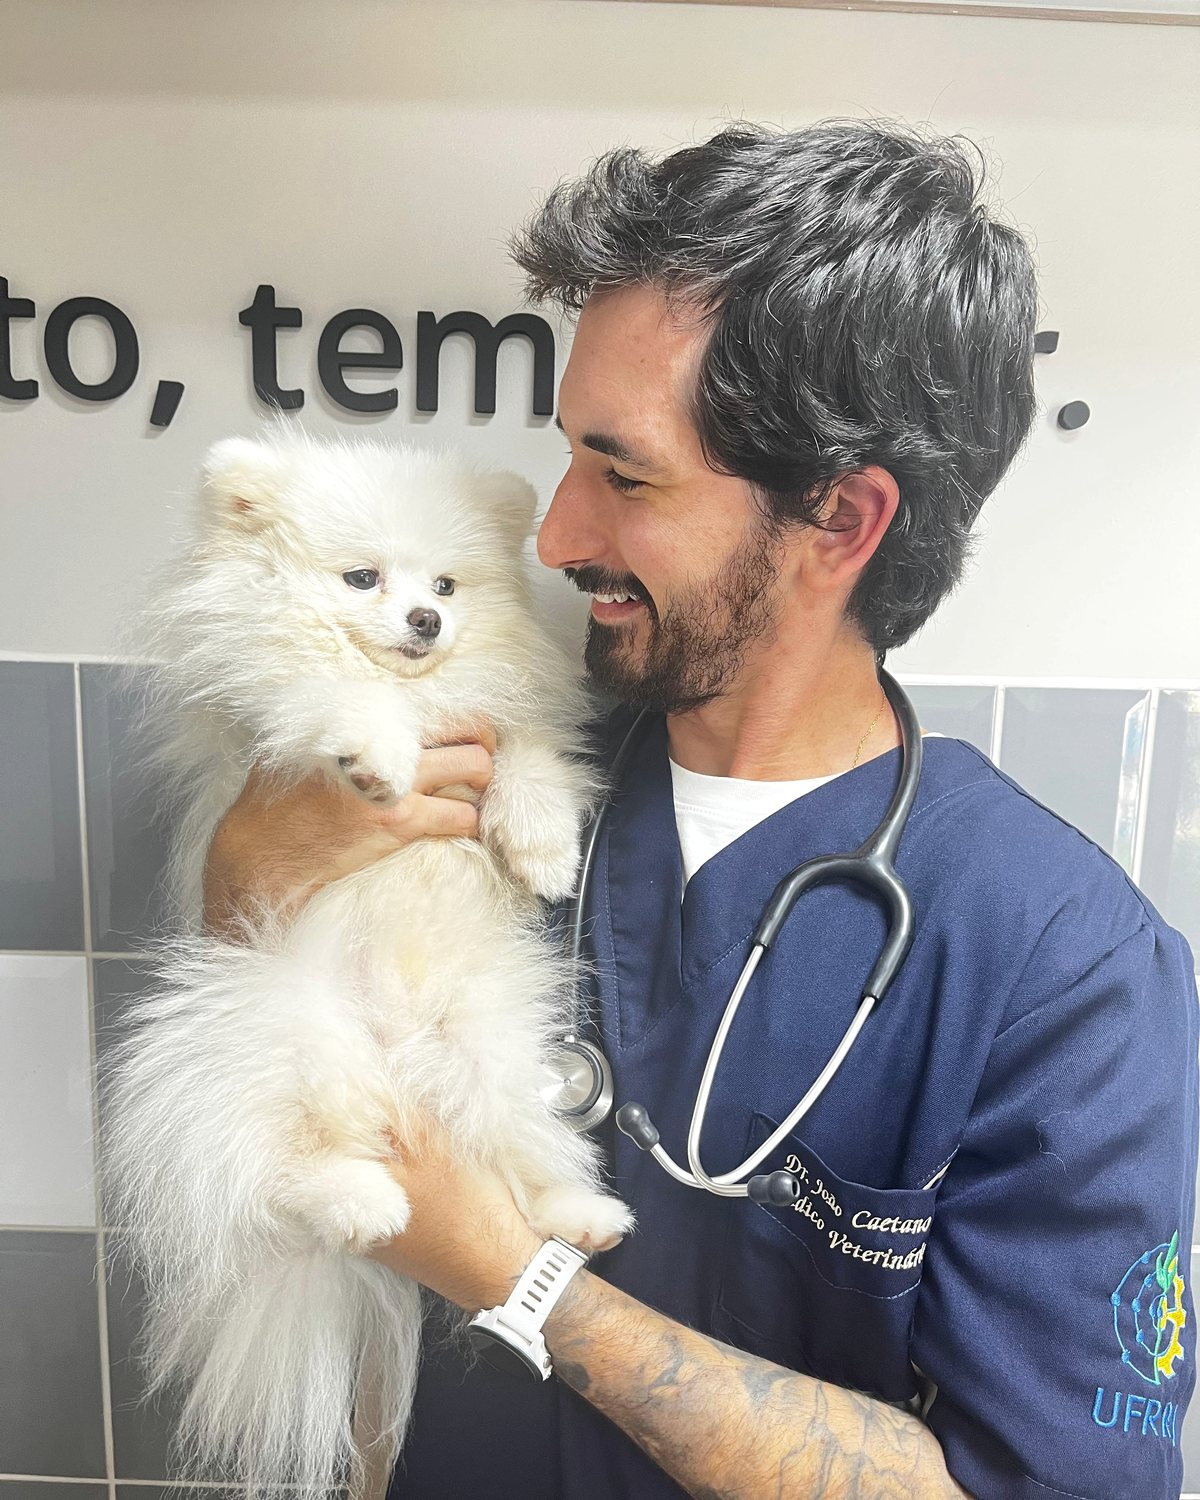
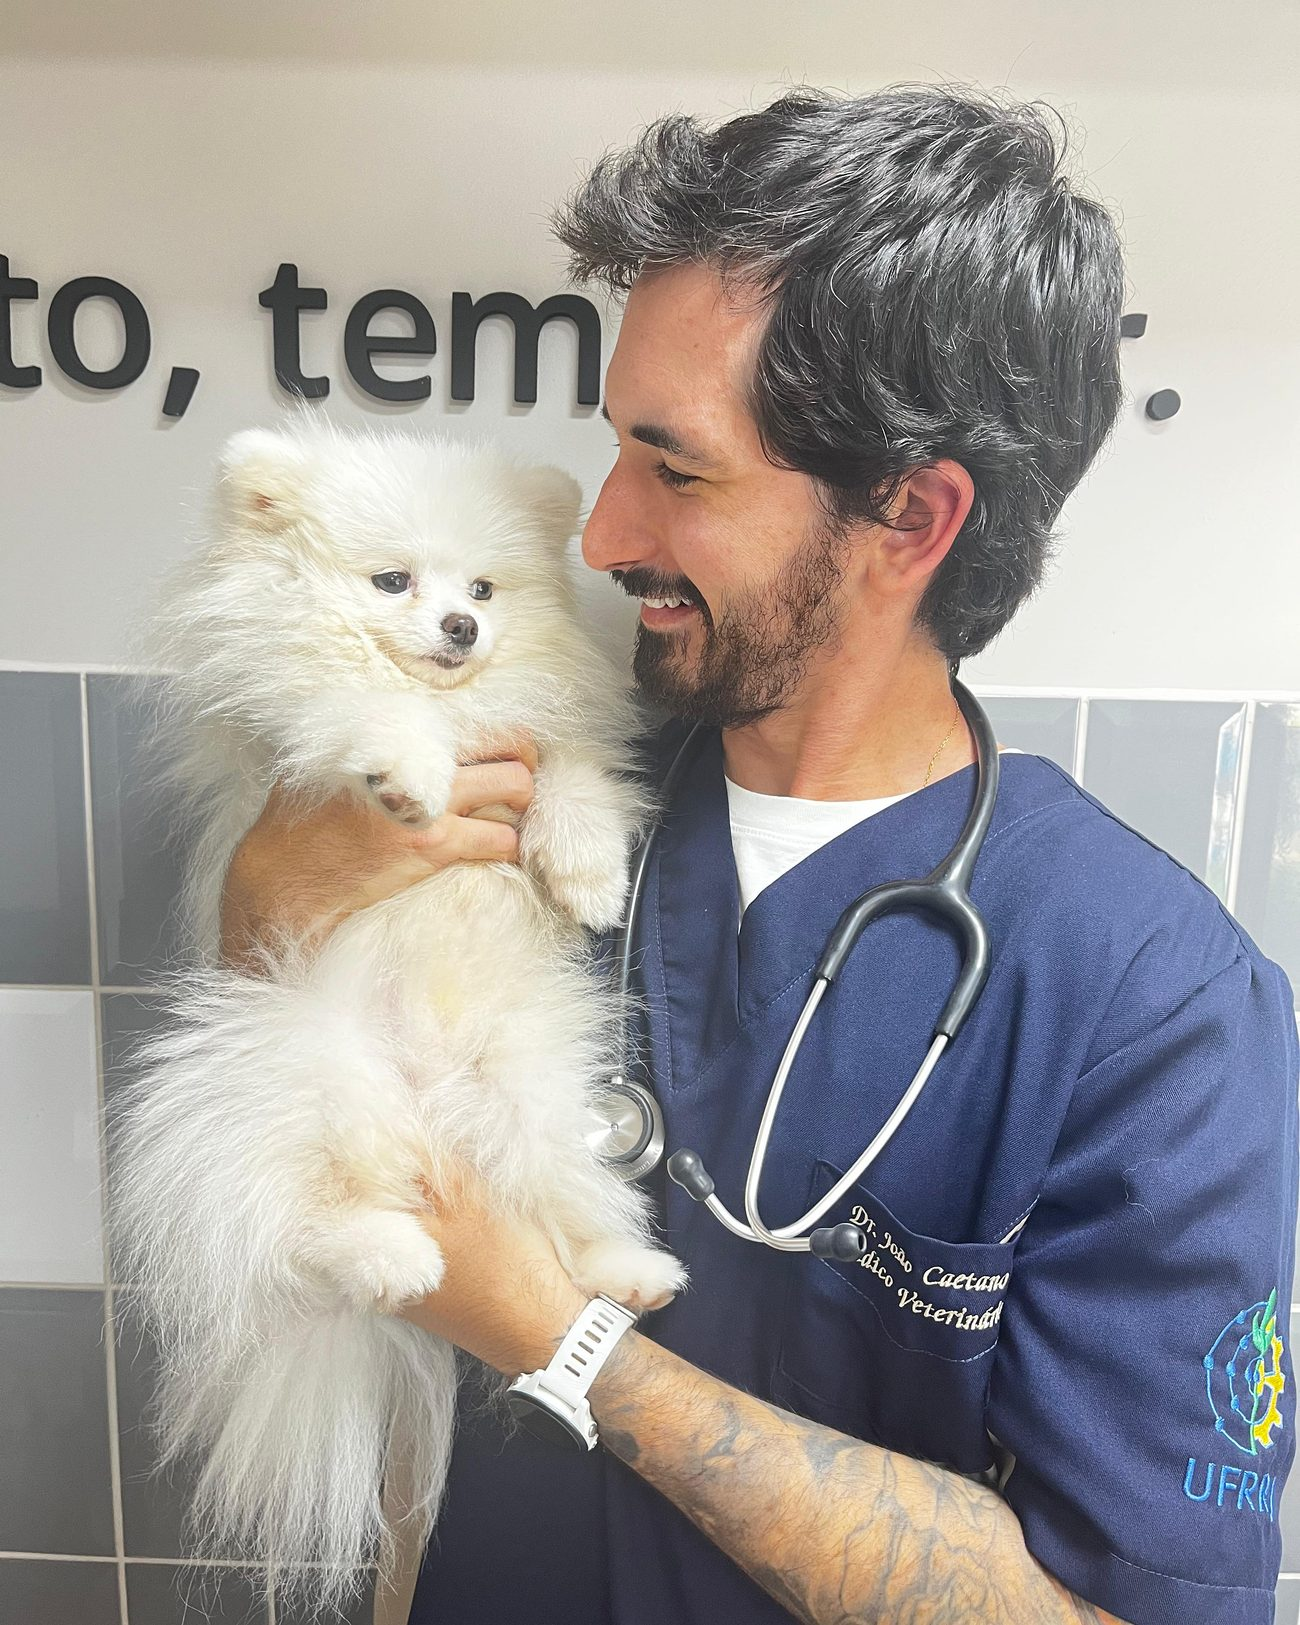
veterinario-domiciliar-zona-sul: site do Joao (pagina + fotos)

diff --git a/veterinario-domiciliar-zona-sul.html b/veterinario-domiciliar-zona-sul.html
@@ -296,6 +296,8 @@ body.menu-open .menu-btn span:last-child{transform:translateY(-3.75px) rotate(-4
 /* fotos verticais (1200x1500) espremidas num box paisagem no celular:
    sem isso, o corte central invade o rosto. Ancora no rosto, não no meio. */
 .hero-slot img{object-position:50% 15%}
+/* no celular a fonte ja e um recorte 16:11 pronto: centraliza normal */
+@media (max-width:939px){.hero-slot img{object-position:50% 50%}}
 .about-slot img{object-position:50% 65%}
 .ph{
   position:absolute;inset:0;display:grid;place-items:center;
@@ -862,7 +864,12 @@ footer{background:var(--marinho);color:var(--off);border-top:1px solid var(--hai
     </div>
     <figure class="slot hero-slot">
       <div class="ph"><div class="ph-mono"><b>JC</b><i>Médico-Veterinário</i></div></div>
-      <img src="fotos-joao/hero.jpg" alt="João Caetano, médico-veterinário, durante atendimento domiciliar" onerror="this.remove()">
+      <picture>
+        <!-- celular recebe um recorte HORIZONTAL proprio, feito do original em 12MP:
+             antes uma foto vertical era espremida no box paisagem e cortava a cabeca -->
+        <source media="(max-width:939px)" srcset="fotos-joao/hero-mobile.jpg">
+        <img src="fotos-joao/hero.jpg" alt="João Caetano, médico-veterinário, com um cão no colo" onerror="this.remove()">
+      </picture>
     </figure>
   </div>
 </section>
